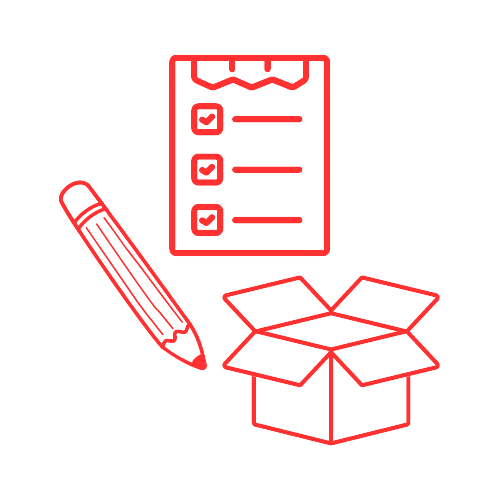
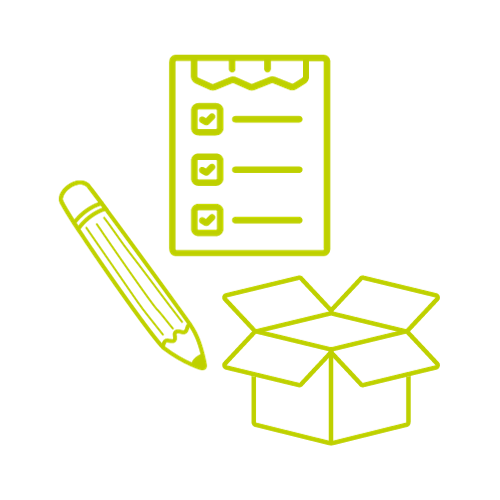
colors changed

Changed region(s): [[0.33, 0.09, 0.9, 0.9], [0.12, 0.36, 0.42, 0.75], [0.45, 0.57, 0.54, 0.63]]

diff --git a/src/theme/variables.scss b/src/theme/variables.scss
@@ -4,12 +4,15 @@
 /** Ionic CSS Variables **/
 :root {
   /** primary **/
-  --ion-color-primary: #eb445a;
+  //--ion-color-primary: #eb445a;
+  --ion-color-primary: #BED000;
   --ion-color-primary-rgb: 235, 68, 90;
   --ion-color-primary-contrast: #ffffff;
   --ion-color-primary-contrast-rgb: 255, 255, 255;
-  --ion-color-primary-shade: #cf3c4f;
-  --ion-color-primary-tint: #ed576b;
+  //--ion-color-primary-shade: #cf3c4f;
+  --ion-color-primary-shade: #A8B800;
+  //--ion-color-primary-tint: #ed576b;
+  --ion-color-primary-tint: #D0E000;
 
   /** secondary **/
   --ion-color-secondary: #3dc2ff;

diff --git a/src/global.scss b/src/global.scss
@@ -34,6 +34,6 @@
 }
 
 .error-form-message {
-  color: var(--ion-color-primary) !important; 
+  color: #eb445a !important; 
   font-size: 12px !important;
 }
